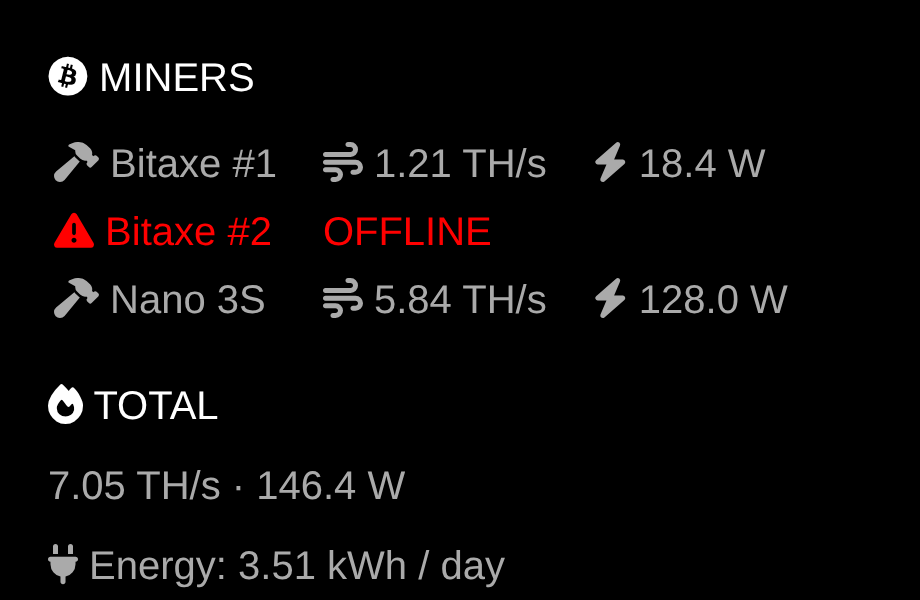
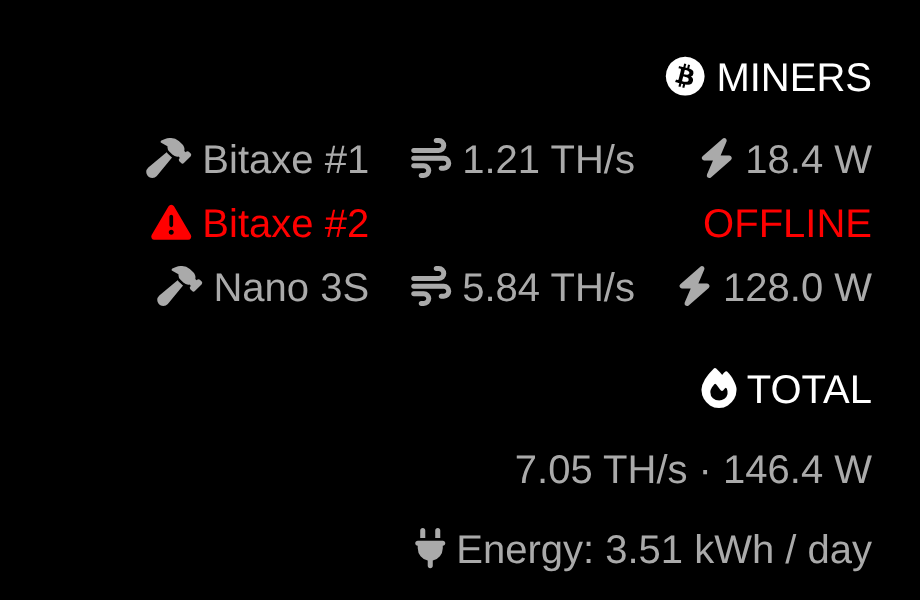
Right-align the module

diff --git a/MMM-MinerStats.css b/MMM-MinerStats.css
@@ -1,5 +1,5 @@
 .minerstats {
-	text-align: left;
+	text-align: right;
 }
 
 .minerstats-heading {
@@ -7,11 +7,13 @@
 }
 
 .minerstats-miners {
-	margin-bottom: 1em;
+	border-collapse: collapse;
+	margin: 0 0 1em auto;
 }
 
 .minerstats-miners td {
 	padding-right: 1em;
+	text-align: right;
 	white-space: nowrap;
 }
 
